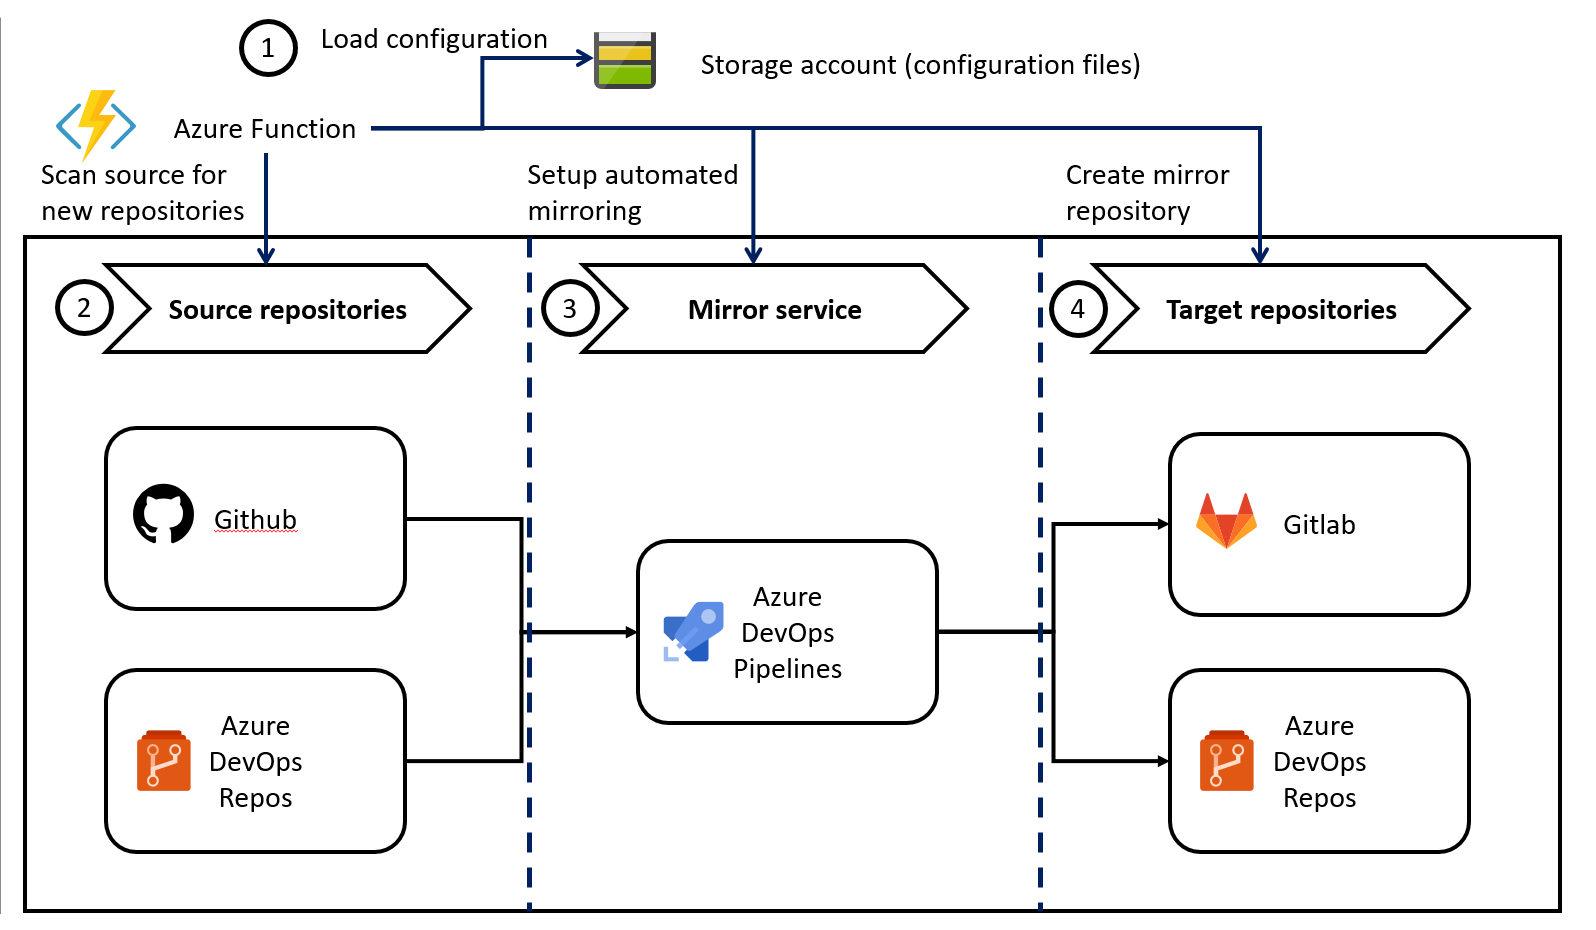
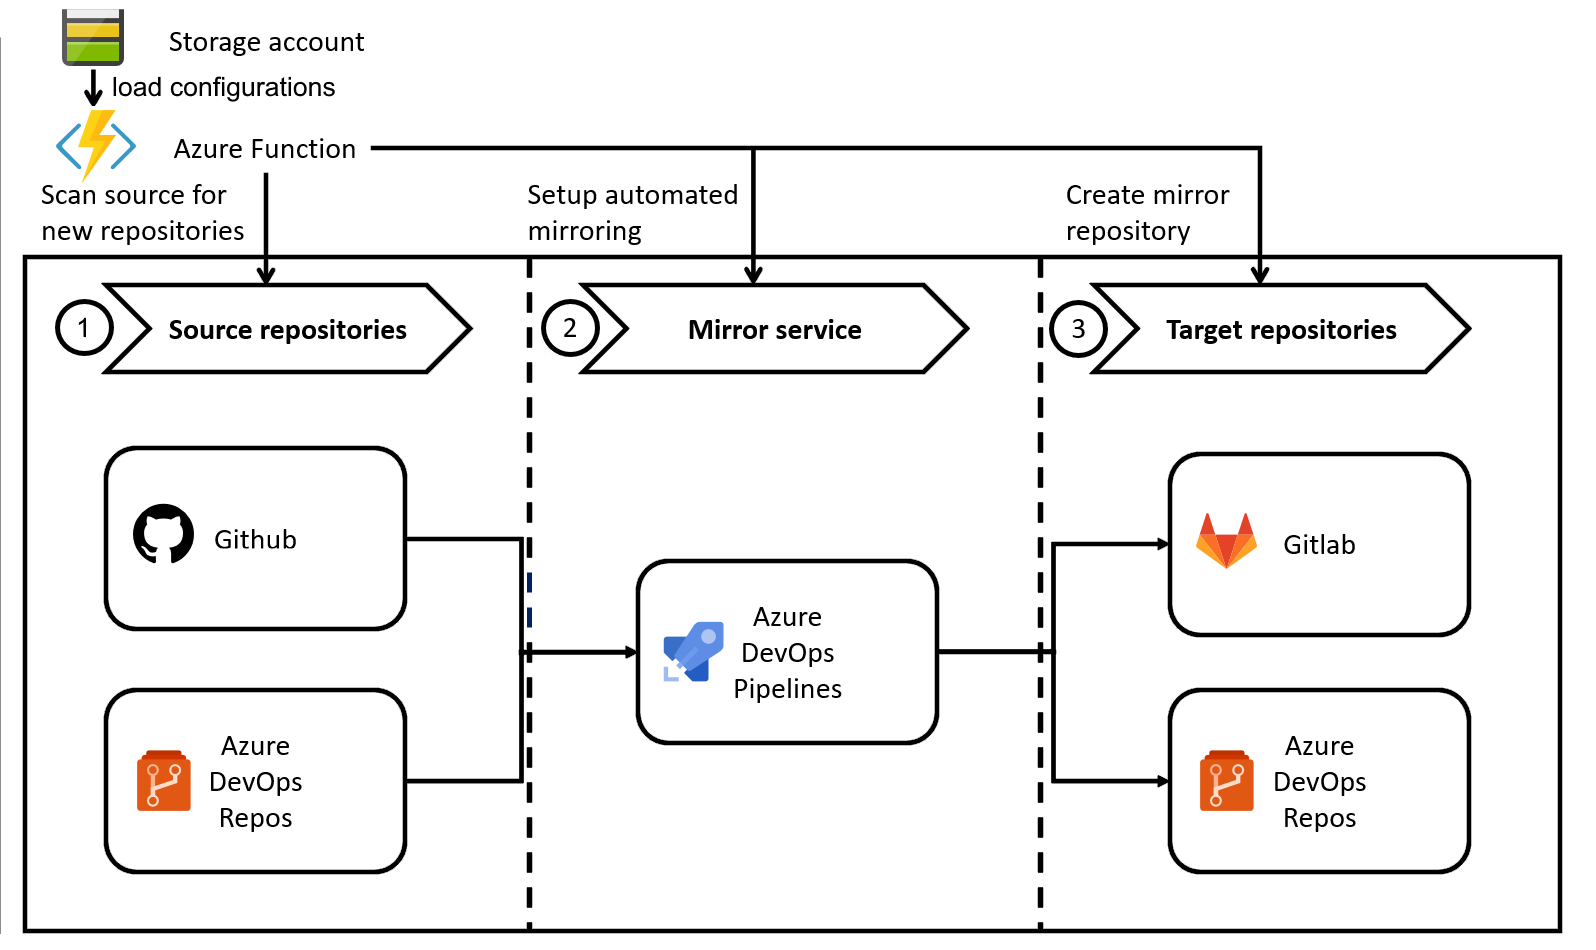
update documentation

diff --git a/Readme.md b/Readme.md
@@ -33,15 +33,13 @@ Once the build pipeline exists it is triggered on every push as well as a schedu
 
 ![Architecture](screenshots/architecture.png)
 
-The service has 3 major parts, all of them are executed as part of the Azure function:
+The service has 3 major parts, all of them are executed as part of the Azure function once for every configuration file (loaded from storage):
 
-As a first step the Azure function is executed on a schedule and loads the configuration files from storage (1).
+* (1) Then function scans the source for new repositories
+* (2) It then creates a build that automatically mirrors the repository on any future changes
+* (3) And finally it creates the target repositories (with identical names)
 
-Then it:
-
-* (2) scans the source repository for new repositories
-* (3) creates a mirror that automatically mirrors the repository on any future changes
-* (4) creates the target repositories (with identical names)
+For every newly discovered repository this infrastructure is set up automatically and since the function runs on a timer (ever 5 minutes) any new Github repository is automatically synced to the targets within 5 minutes of creation.
 
 See [configuration](docs/Configuration.md), [supported sources](docs/Supported%20sources.md), [supported mirrors](docs/Supported%20mirrors.md) and [supported targets](docs/Supported%20targets.md) for more details on each.
 
